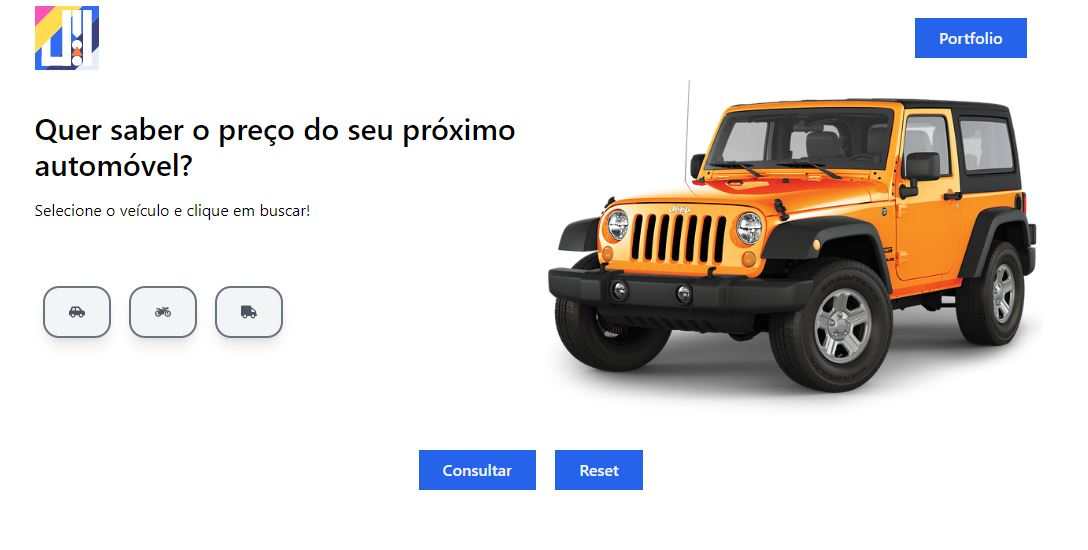
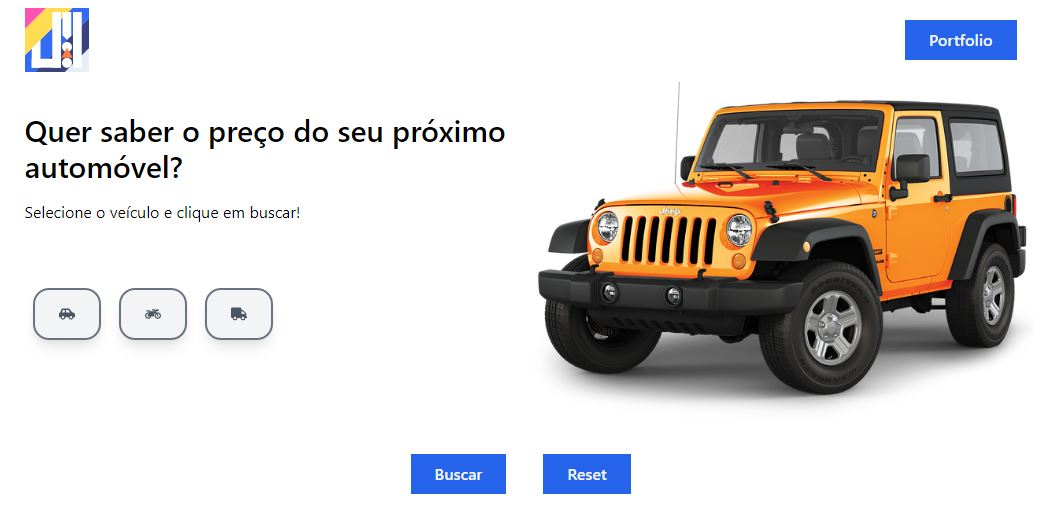
refactor: fix button typo

diff --git a/pages/index.tsx b/pages/index.tsx
@@ -174,13 +174,13 @@ const Home: NextPage = () => {
       <div className="flex justify-between w-56 mx-auto mt-8">
         <button onClick={async () => {
           await getPrice()
-        }} className="bg-blue-600 text-gray-100 px-6 py-2 font-semibold
-        hover:bg-blue-500 duration-200 active:outline-none focus:outline-none">Consultar</button>
+        }} className="bg-blue-600 border-2 border-white text-gray-100 px-6 py-2 font-semibold
+        hover:bg-blue-500 duration-200 hover:border-blue-300 hover:border-2 active:outline-none focus:outline-none">Buscar</button>
         <button onClick={() => {
           reset()
           setVehicle('')
-        }} className="bg-blue-600 text-gray-100 px-6 py-2 font-semibold
-        hover:bg-blue-500 duration-200 active:outline-none focus:outline-none">Reset</button>
+        }} className="bg-blue-600 border-2 border-white text-gray-100 px-6 py-2 font-semibold
+        hover:bg-blue-500 duration-200 hover:border-blue-300 hover:border-2 active:outline-none focus:outline-none">Reset</button>
       </div>
 
       {price
@@ -204,7 +204,7 @@ const Home: NextPage = () => {
                 </tr>
               </tbody>
             </table>
-            <span className="block text-xs ml-auto text-right mr-3 mb-3">Tabela atualizada em {price.MesReferencia}</span>
+            <span className="block text-xs m-auto text-center mb-3">Tabela atualizada em {price.MesReferencia}</span>
           </div>
         : <table></table>
       }
